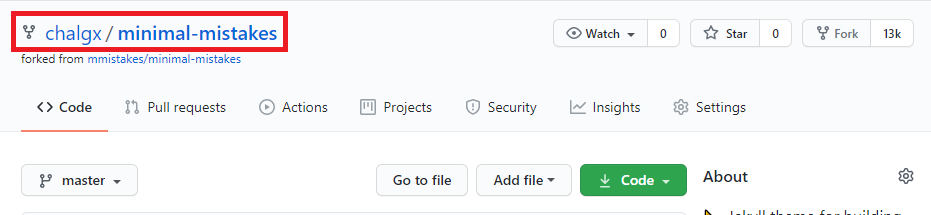
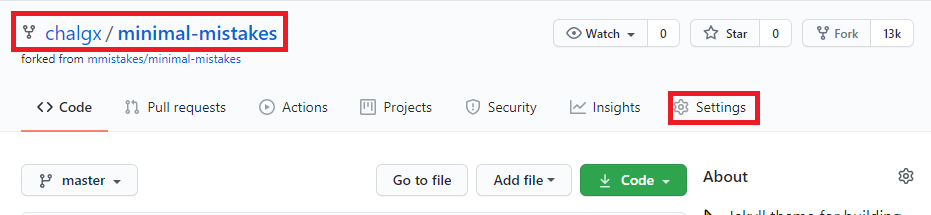
.

Changed region(s): [[0.7164, 0.4186, 0.841, 0.586]]

diff --git a/_drafts/GithubJekyllManual1.md b/_drafts/GithubJekyllManual1.md
@@ -1,6 +1,6 @@
 ---
 title: Jekyll을 이용해서 깃허브로 블로그 만들기_1.Jekyll 설치 및 github 연동
-date: 
+date: 2021-01-29
 categories: [Manual]
 tags: [manual, github, blog, jekyll]
 pin: true
@@ -12,6 +12,10 @@ toc: true
 
 본 과정을 수행하기 위해서는 깃허브 계정이 있어야 한다. 로컬에서 관리하려면 git과 ruby가 설치되어 있어야 한다.
 
+[Github 가입 방법](https://chalgx.github.io/Manual/GithubManual1/)
+
+[Ruby 설치 방법](https://chalgx.github.io/Manual/RubyInstallManual/)  
+
 ***
 
 ## __1.Jekyll 테마 선택__
@@ -20,7 +24,102 @@ Jekyll 순정버전에서 본인이 원하는 대로 수정해서 사용할 수 
 
 설치 방법은 기본적으로 해당 테마가 있는 github에 가보면 Readme.md에 자세하게 설명되어 있고 그것을 따르면 된다.
 
-본 내용은 minimal-mistakes를 기준으로 작성했다.
+본 내용은 minimal-mistakes를 기준으로 작성했고 fork하는 방식을 사용했다.
+
+***
 
 ## __2.설치 과정__
 
+![GithubJekyll1](/images/GithubJekyll1/GithubJekyll1.png)
+
+깃허브로 원하는 Jekyll theme에 들어가면 상단에 Fork가 있다. 해당 버튼을 누르고 잠시기다리면 fork가 완료된다.
+
+![GithubJekyll2](/images/GithubJekyll1/GithubJekyll2.png)
+
+제대로 됐다면 앞쪽 이름이 자신의 이름으로 바뀐다. 오른쪽에 있는 Settings에 들어간다.
+
+![GithubJekyll3](/images/GithubJekyll1/GithubJekyll3.png)
+
+Repository name을 자신의 계정명.github.io로 바꾼다.
+
+여기서 계정명은 chalgx이므로 chalgx.github.io로 바꿨다.
+
+바꾼 이후 Rename을 클릭한다.
+
+Repository는 Public으로 공개되어 있어야 한다.
+
+다시 Code로 돌아간다.
+
+![GithubJekyll4](/images/GithubJekyll1/GithubJekyll4.png)
+
+_config.yml에서 자신에게 맞게 수정해야 한다. 들어간다.
+
+![GithubJekyll5](/images/GithubJekyll1/GithubJekyll5.png)
+
+들어가면 다음과 같이 내용을 읽을 수 있다. 오른쪽의 수정 버튼을 눌러서 내용을 수정한다.
+
+![GithubJekyll6](/images/GithubJekyll1/GithubJekyll6.png)
+
+이중에서 url은 반드시 바꿔야 한다. 앞서서 바꾼 Repository명으로 바꾼다. "https://계정명.github.io"가 된다. 예시로는 "https://chalgx.github.io"다.
+
+이외에도 Title 등 다양한 것들을 자신에게 맞게 수정한다.
+
+창을 아래로 내려서 commit해서 저장한다.
+
+***
+
+## __3.로컬에서 Ruby 연동__
+
+로컬에서 루비를 연동하면 로컬서버로 사이트를 확인할 수 있다. 수정한 내용을 바로 확인할 수 있고, 다양한 에러를 직접 확인할 수 있어서 매우 편리하다.
+
+먼저 cmd, bash와 같은 터미널을 연다. 여기서는 git bash를 사용했다.
+
+로컬에서 관리하기 위해 관련 파일을 저장할 곳을 정하고 깃허브에 있는 파일들을 다운로드 한다.
+
+```
+git clone https://github.com/계정명/계정명.github.io
+```
+
+다음은 예시 화면이다.
+
+![GithubJekyll8](/images/GithubJekyll1/GithubJekyll8.png)  
+
+jekyll bundle을 설치해준다.
+
+```
+gem install jekyll bundler
+```
+
+![GithubJekyll10](/images/GithubJekyll1/GithubJekyll10.png)
+
+필요한 bundle도 설치해준다.
+
+```
+gem install bundler
+```
+
+![GithubJekyll12](/images/GithubJekyll1/GithubJekyll12.png)
+
+이제 로컬에서 사용할 수 있게 빌드한다.
+
+```
+bundle install
+```
+
+![GithubJekyll13](/images/GithubJekyll1/GithubJekyll13.png)
+
+완료되면 준비가 다 된 것이다.
+
+터미널에 다음과 같이 입력하면 로컬 서버가 생성된다.
+
+```
+jekyll serve
+```
+
+컴퓨터 내부 네트워크인 127.0.0.1:4000에 접속하면 생성된 페이지를 볼 수 있다. 크롬이나 익스플로러 같은 웹브라우저 주소창에 입력하면 된다.
+
+_drifts의 폴더안 내용도 테스트하고 싶다면 다음과 같은 옵션을 붙인다.
+
+```
+jekyll serve --drifts
+```

diff --git a/_drafts/RubyInstallManual.md b/_drafts/RubyInstallManual.md
@@ -1,6 +1,6 @@
 ---
 title: Ruby 설치 방법
-date: 
+date: 2021-01-29
 categories: [Manual]
 tags: [manual, github]
 pin: true
@@ -8,8 +8,70 @@ math: false
 toc: true
 ---
 
+※ 본 내용은 2021-01-29 기준으로 작성된 것으로 이 글을 읽는 시점에 따라 적용되지 않을 수 있음
+
 ## __1. 공식 사이트에서 설치 파일 다운로드__
 
 아래 사이트에 접속한다.
 
-https://www.ruby-lang.org/ko/downloads/
+<https://www.ruby-lang.org/ko/downloads/>
+
+그럼 아래와 같은 화면이 나온다.
+
+![RubyInstall1](/images/RubyInstall/RubyInstall1.png)
+
+자신의 컴퓨터의 운영체제에 맞는 것을 선택한다. 보통은 Windows일 것이다.
+
+***
+
+![RubyInstall2](/images/RubyInstall/RubyInstall2.png)
+
+Download 버튼을 클릭한다.
+
+***
+
+![RubyInstall3](/images/RubyInstall/RubyInstall3.png)
+
+보면 다양한 버전의 Ruby가 있다. 자신이 사용하고자 하는 목적에 따라 적합한 버전을 선택한다.
+
+다른 프로그램을 사용하기 위해서라면 보통 Readme나 manual 같은 설명서에 어느 버전을 써야할지 명시해준다.
+
+특별히 그런 게 없다면 오른쪽에 현재 추천하는 버전이 있으므로 그것을 다운받는다.
+
+***
+
+## __2.설치 프로그램 실행__
+
+다운로드 받은 설치프로그램을 실행한다.
+
+![RubyInstall4](/images/RubyInstall/RubyInstall4.png)
+
+라이센스 동의를 하고 Next를 눌러서 다음으로 넘어간다.
+
+![RubyInstall5](/images/RubyInstall/RubyInstall5.png)
+
+설치경로를 설정한다. 체크박스 3개는 PATH 설정, .rb, .rbw 확장명을 가지는 파일을 자동으로 연결해주는 것, UTF-8을 기본 외부 인코딩으로 설정한다는 것이다.특별히 설정을 해야 하는 게 아니면 그냥 둬도 상관없다.
+
+Install을 눌러서 다음으로 넘어간다.
+
+![RubyInstall6](/images/RubyInstall/RubyInstall6.png)
+
+어떤 것을 설치할지 선택한다. 마찬가지로 절대 사용할 일이 없을 거란 걸 확신할 수 있는 게 아니면 다 설치해준다.
+
+![RubyInstall7](/images/RubyInstall/RubyInstall7.png)
+
+그러면 다음과 같이 설치가 진행된다.
+
+![RubyInstall8](/images/RubyInstall/RubyInstall8.png)
+
+체크박스에 체크가 되어있도록 하고 Finish버튼을 누른다. MSYS2 development toolchain을 설치하기 위함이다.
+
+설령 여기서 모르고 넘어갔다면 설치경로로 들어가서 따로 설치를 할 수 있다.
+
+![RubyInstall9](/images/RubyInstall/RubyInstall9.png)
+
+해당 창이 열리면 3을 누르고 엔터를 친다. 3번 옵션인 MSYS2 and MINGW development toolchain을 설치하는 것이다.
+
+![RubyInstall10](/images/RubyInstall/RubyInstall10.png)
+
+다음과 같이 설치가 진행되고 완료된다.

diff --git a/_drafts/GithubManual1.md b/_drafts/GithubManual1.md
@@ -1,6 +1,6 @@
 ---
 title: 깃허브 사용법_1.가입
-date: 
+date: 2021-01-29
 categories: [Manual]
 tags: [manual, github]
 pin: true
@@ -10,3 +10,56 @@ toc: true
 
 ## __1. 가입하기__
 
+깃허브에 가입하기 위해서는 이메일이 있어야 한다.
+
+먼저 깃허브 홈페이지에 접속한다.
+
+<https://www.github.com>
+
+위의 사이트 주소를 클릭하거나 검색해서 들어간다.
+
+![Githubsignup1](/images/Github1/Githubsignup1.png)
+
+상단에 Sign up을 클릭한다. 계정이 있다면 Sign in으로 들어가면 로그인이 가능하다.
+
+![Githubsignup2](/images/Github1/Githubsignup2.png)
+
+깃허브에서 사용할 유저네임과 이메일주소, 비밀번호를 입력한다.
+
+유저네임은 길지 않게 해야 한다. git을 사용할때 계속 계정이름을 써야하는데 이름이 길면 그만큼 타이핑해야 하는 게 많아진다.
+
+같은 이유로 하이픈을 쓰거나 대소문자를 섞는 것은 좋지 않다.
+
+가장 기본적으로는 자기이름이니셜에 간단한 숫자를 붙이는 것이다.
+
+![Githubsignup3](/images/Github1/Githubsignup3.png)
+
+다음과 같이 작성했다. Create account를 클릭한다.
+
+![Githubsignup4](/images/Github1/Githubsignup4.png)
+
+자신의 관심사를 선택할 수 있는 페이지다. 필수는 아니다.
+
+아래로 쭉 내린다.
+
+![Githubsignup5](/images/Github1/Githubsignup5.png)
+
+Complete setup을 눌러준다. 설정하고 싶은 것은 자유롭게 선택하면 된다.
+
+![Githubsignup6](/images/Github1/Githubsignup6.png)
+
+작성했던 이메일로 확인 메일이 발송되었다. 이메일에 접속하면 Github에서 온 메일이 있을 것이다.
+
+없으면 조금 기다려보거나 스팸함을 확인해본다. 혹은 이메일을 잘못썼는지 다시 확인한다.
+
+계정가입은 한 이메일당 하나만 가능하다.
+
+![Githubsignup7](/images/Github1/Githubsignup7.png)
+
+받은 이메일에 들어가서 해당 버튼을 클릭하면 인증이 완료된다.
+
+![Githubsignup8](/images/Github1/Githubsignup8.png)
+
+완료가 되면 이제 깃허브 계정 생성이 완료된다. 로그인하면 그 기록이 저장되어서 다시 들어갈 때 로그인을 별도로 하지 않아도 된다.
+
+시크릿 브라우저로 접속하면 당연히 기록이 남지 않기 때문에 들어갈 때마다 로그인을 해야 한다.

diff --git a/_drafts/Sobel_Filter.md b/_drafts/Sobel_Filter.md
@@ -2,7 +2,7 @@
 title: Sobel-Feldman Operator / Sobel Filter
 author: Jang_Hyeoon_Soo
 date: 2020-08-30
-categories: [knowledge, filter]
+categories: [Filter]
 tags: [Sobel_filter, Sobel_Operator, filter, Sobel]
 pin: true
 use_math: true

diff --git a/_drafts/GithubJekyllManual3.md b/_drafts/GithubJekyllManual3.md
@@ -1,6 +1,6 @@
 ---
 title: Jekyll을 이용해서 깃허브로 블로그 만들기_2.서치 콘솔, 애널리틱스, 웹마스터 연동
-date: 
+date: 2021-01-29
 categories: [Manual]
 tags: [manual, github, blog, jekyll]
 pin: true

diff --git a/_drafts/GithubJekyllManual2.md b/_drafts/GithubJekyllManual2.md
@@ -1,6 +1,6 @@
 ---
 title: Jekyll을 이용해서 깃허브로 블로그 만들기_2.robots.txt, sitemap.xml, rss.xml 생성 및 설정
-date: 
+date: 2021-01-29
 categories: [Manual]
 tags: [manual, github, blog, jekyll]
 pin: true

diff --git a/_drafts/AcademiaandObjectivity.md b/_drafts/AcademiaandObjectivity.md
@@ -1,10 +1,8 @@
 ---
 layout: post
-title:
-subtitle: 
-author: 
-date: 
-categories: [Writing, Essay]
+title: 학벌과 객관성
+date: 2021-01-29
+categories: [Essay]
 tags: [essay, capstone design]
 pin: true
 use_math: true

diff --git a/_drafts/Sleep.md b/_drafts/Sleep.md
@@ -2,7 +2,7 @@
 title: 수면
 author: Jang_Hyeoon_Soo
 date: 2021-01-22
-categories: [Writing, Essay]
+categories: [Essay]
 tags: [essay, sleep]
 pin: true
 use_math: true

diff --git a/_posts/2021-01-21-MardkdownSyntax.md b/_posts/2021-01-21-MardkdownSyntax.md
@@ -1,7 +1,7 @@
 ---
 title: 마크다운 문법
 date: 2021-01-21
-categories: [manual]
+categories: [Manual]
 tags: [manual, markdown, syntax]
 pin: true
 use_math: true
